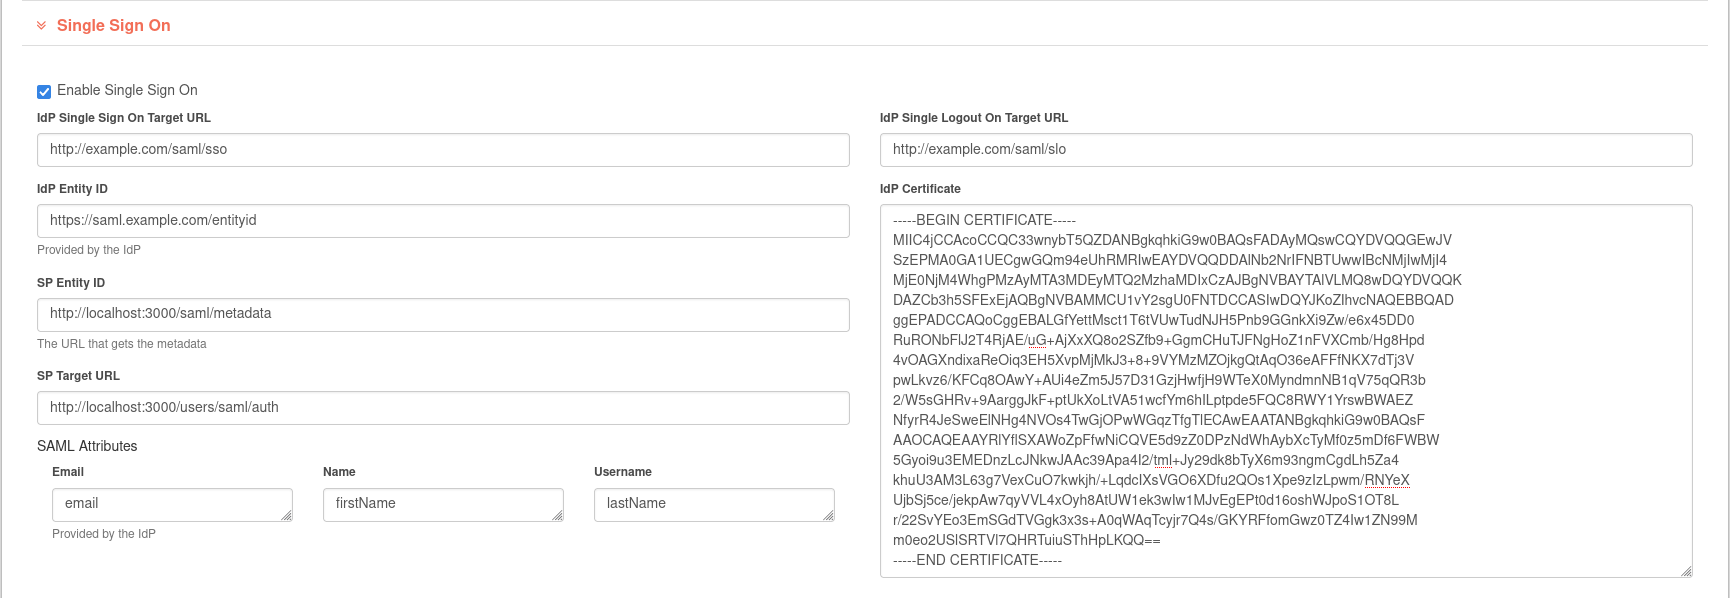
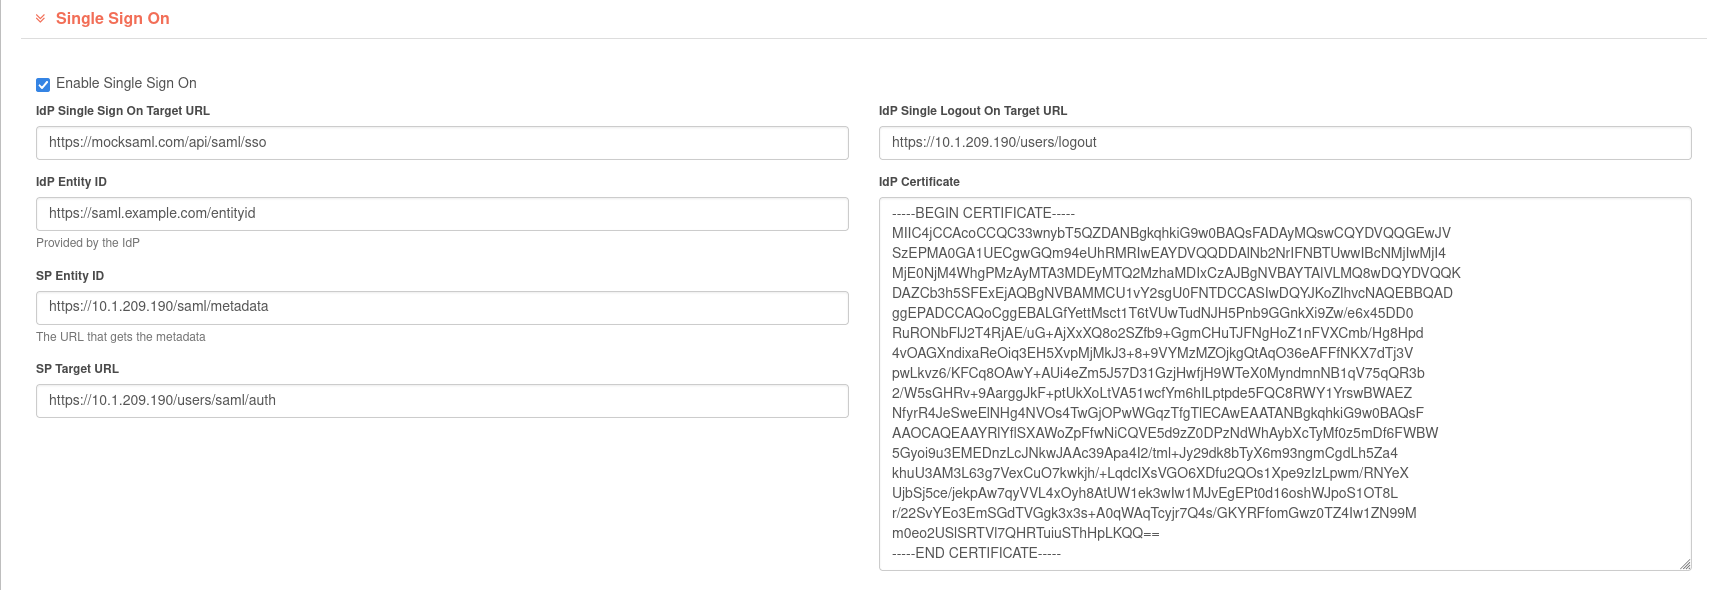
Deleted SAML Attribute Maps

diff --git a/docs/guides/integrations/sso.es.md b/docs/guides/integrations/sso.es.md
@@ -45,10 +45,6 @@ Después, el sistema de inicio de sesión SSO estará habilitado. Puedes comprob
     - **URL de destino del IdP SLO**: Esta es la URL que redirige al IdP cuando deseas cerrar sesión. Hay algunos IdPs que no tienen esta configuración, entonces escribe la ruta de cierre de sesión de redBorder: `<host>/users/logout`.  
     - **ID de Entidad del IdP**: Esta es la URL usada por el SP para verificar las respuestas SAML recibidas por el IdP.  
     - **Certificado del IdP**: El certificado único proporcionado por el IdP que permite descifrar la respuesta encriptada de la autenticación y obtener los atributos del usuario.  
-    - **Atributos del IdP**: Estos son los nombres de los atributos de la respuesta del IdP. Contiene los datos necesarios para el inicio de sesión/registro. Hay muchos esquemas (ver los más comunes [aquí](https://wiki.surfnet.nl/display/surfconextdev/Attributes+and+SAML#AttributesandSAML-Attributeschemas)).  
-    - Correo electrónico: El correo electrónico del usuario.  
-    - Nombre: El nombre del usuario.  
-    - Nombre de usuario: El id que será registrado o usado para iniciar sesión.  
 
 === "Parámetros del SP"  
     - **ID de Entidad del SP**: Esta es la URL del SP que recibirá los metadatos del IdP.  

diff --git a/docs/guides/integrations/sso.md b/docs/guides/integrations/sso.md
@@ -45,11 +45,6 @@ After, the SSO login system is enabled. You can check it by going to the login p
     - **IdP Single Logout On Target URL**: This is the URL that redirects to the IdP when you want to log out. There are some IdPs that have not this configuration, then write the redBorder logout path: `<host>/users/logout`.  
     - **IdP Entity ID**: This is the URL used by the SP to verify the SAML responses coming from the IdP.  
     - **IdP Certificate**: The unique certificate provided by the IdP that allows decrypting the encrypted response of the authentication and get the user attributes.  
-    - **IdP Attributes**: These are the attribute names of the IdP response. It contains the necessary data for the login/register. There are a lot of schemes (see the most common [here](https://wiki.surfnet.nl/display/surfconextdev/Attributes+and+SAML#AttributesandSAML-Attributeschemas)).  
-        - Email: The user email.  
-        - Name: The user name.  
-        - Username: The id that will be registered or used to login.  
-
 
 === "SP Parameters"  
     - **SP Entity ID**: This is the URL of the SP that will receive the metadata from the IdP.  
